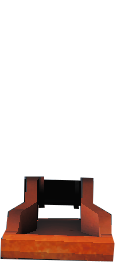
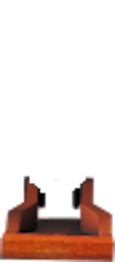
Made the guards on the Test and LG Panels working

Changed region(s): [[0.0, 0.6718, 1.0, 1.0], [0.1304, 0.8244, 0.5478, 0.916]]

diff --git a/Helios/Gauges/M2000C/LGPanel/LG_Panel.cs b/Helios/Gauges/M2000C/LGPanel/LG_Panel.cs
@@ -35,7 +35,8 @@ namespace GadrocsWorkshop.Helios.Gauges.M2000C
             int row1 = 173, row2 = 191, row3 = 210, row4 = 228, row5 = 232, row6 = 242;
             int column1 = 202, column2 = 217, column3 = 232, column4 = 248, column5 = 262;
             int sizeIndicX = 23, sizeIndicY = 14;
-           PushButton emergencyJettisonButton =  AddPushButton("Emergency Jettison Lever");
+           PushButton emergencyJettisonButton =  AddPushButton("Emergency Jettison Lever", new Point(212, 81), new Size(70, 70),
+               "{M2000C}/Images/LGPanel/emergency-jettison-not-pushed.png", "{M2000C}/Images/LGPanel/emergency-jettison-pushed.png", PushButtonType.Momentary);
 
             //First row
             AddIndicator("A", new Point (column2, row1), new Size(sizeIndicX, sizeIndicY));
@@ -59,11 +60,10 @@ namespace GadrocsWorkshop.Helios.Gauges.M2000C
             AddSwitch("Fly by Wire G Limiter Switch", "{M2000C}/Images/Switches/black-circle-", new Point(241, 255), new Size(25, 70), ToggleSwitchPosition.One, ToggleSwitchType.OnOn);
             AddSwitch("Landing Gear Lever", "{M2000C}/Images/LGPanel/landing-gear-", new Point(70, 140), new Size(50, 170), ToggleSwitchPosition.Two, ToggleSwitchType.OnOn);
 
-            /*            AddGuard("Fly By Wire Gain Switch Guard", "fbwg-guard-", new Point(152, 242), new Size(43, 90), ToggleSwitchPosition.One, ToggleSwitchType.OnOn,
-                            new NonClickableZone[] { new NonClickableZone(new Rect(0, 0, 43, 70), ToggleSwitchPosition.Two, fbwgSwitch, ToggleSwitchPosition.One) },
-                            false, false);
-            */
-            
+            AddGuard("Fly By Wire Gain Switch Guard", "fbwg-guard-", new Point(152, 245), new Size(43, 110), ToggleSwitchPosition.One, ToggleSwitchType.OnOn,
+                new NonClickableZone[] { new NonClickableZone(new Rect(0, 20, 43, 90), ToggleSwitchPosition.Two, fbwgSwitch, ToggleSwitchPosition.One) },
+                false, false);
+
             AddRotarySwitch("Emergency Landing Gear Lever", new NonClickableZone[] {
                     new NonClickableZone(new Rect(123, 81, 37, 70), true, emergencyJettisonButton)});
         }
@@ -139,16 +139,17 @@ namespace GadrocsWorkshop.Helios.Gauges.M2000C
                 fromCenter: false);
         }
 
-        private PushButton AddPushButton(string name)
+        private PushButton AddPushButton(string name, Point posn, Size size, string notPushedImage, string pushedImage, PushButtonType pushButtonType)
         {
             return AddButton(name: name,
-                posn: new Point(212, 81),
-                size: new Size(70, 70),
-                image: "{M2000C}/Images/LGPanel/emergency-jettison-not-pushed.png",
-                pushedImage: "{M2000C}/Images/LGPanel/emergency-jettison-pushed.png",
+                posn: posn,
+                size: size,
+                image: notPushedImage,
+                pushedImage: pushedImage,
                 buttonText: "",
                 interfaceDeviceName: _interfaceDeviceName,
                 interfaceElementName: name,
+                pushButtonType: pushButtonType,
                 fromCenter: false);
         }
 

diff --git a/Helios/CompositeVisual.cs b/Helios/CompositeVisual.cs
@@ -464,7 +464,7 @@ namespace GadrocsWorkshop.Helios
 
 
         protected PushButton AddButton(string name, Point posn, Size size, string image, string pushedImage,
-            string buttonText, string interfaceDeviceName, string interfaceElementName, bool fromCenter)
+            string buttonText, string interfaceDeviceName, string interfaceElementName, bool fromCenter, PushButtonType pushButtonType = PushButtonType.Momentary)
         {
             if (fromCenter)
                 posn = FromCenter(posn, size);
@@ -480,7 +480,7 @@ namespace GadrocsWorkshop.Helios
                 Text = buttonText,
                 Name = componentName
             };
-
+            button.ButtonType = pushButtonType;
             Children.Add(button);
 
             AddTrigger(button.Triggers["pushed"], componentName);

diff --git a/Helios/Interfaces/DCS/M2000C/M2000CInterface.cs b/Helios/Interfaces/DCS/M2000C/M2000CInterface.cs
@@ -298,7 +298,7 @@ namespace GadrocsWorkshop.Helios.Interfaces.DCS.M2000C
                 new SwitchPosition("1.0", "SECU", "3463"),
                 new SwitchPosition("0.0", "ARMED", "3463") },
                 "Landing Gear Panel", "Gun Arming Switch", "%0.1f"));
-            AddFunction(new Switch(this, ENGPANEL, "420", new SwitchPosition[] {
+            AddFunction(new Switch(this, ENGINE, "420", new SwitchPosition[] {
                 new SwitchPosition("0.0", "CLOSE", "3420"),
                 new SwitchPosition("1.0", "OPEN", "3420") },
                 "Landing Gear Panel", "Fly By Wire Gain Switch Guard", "%0.1f"));
